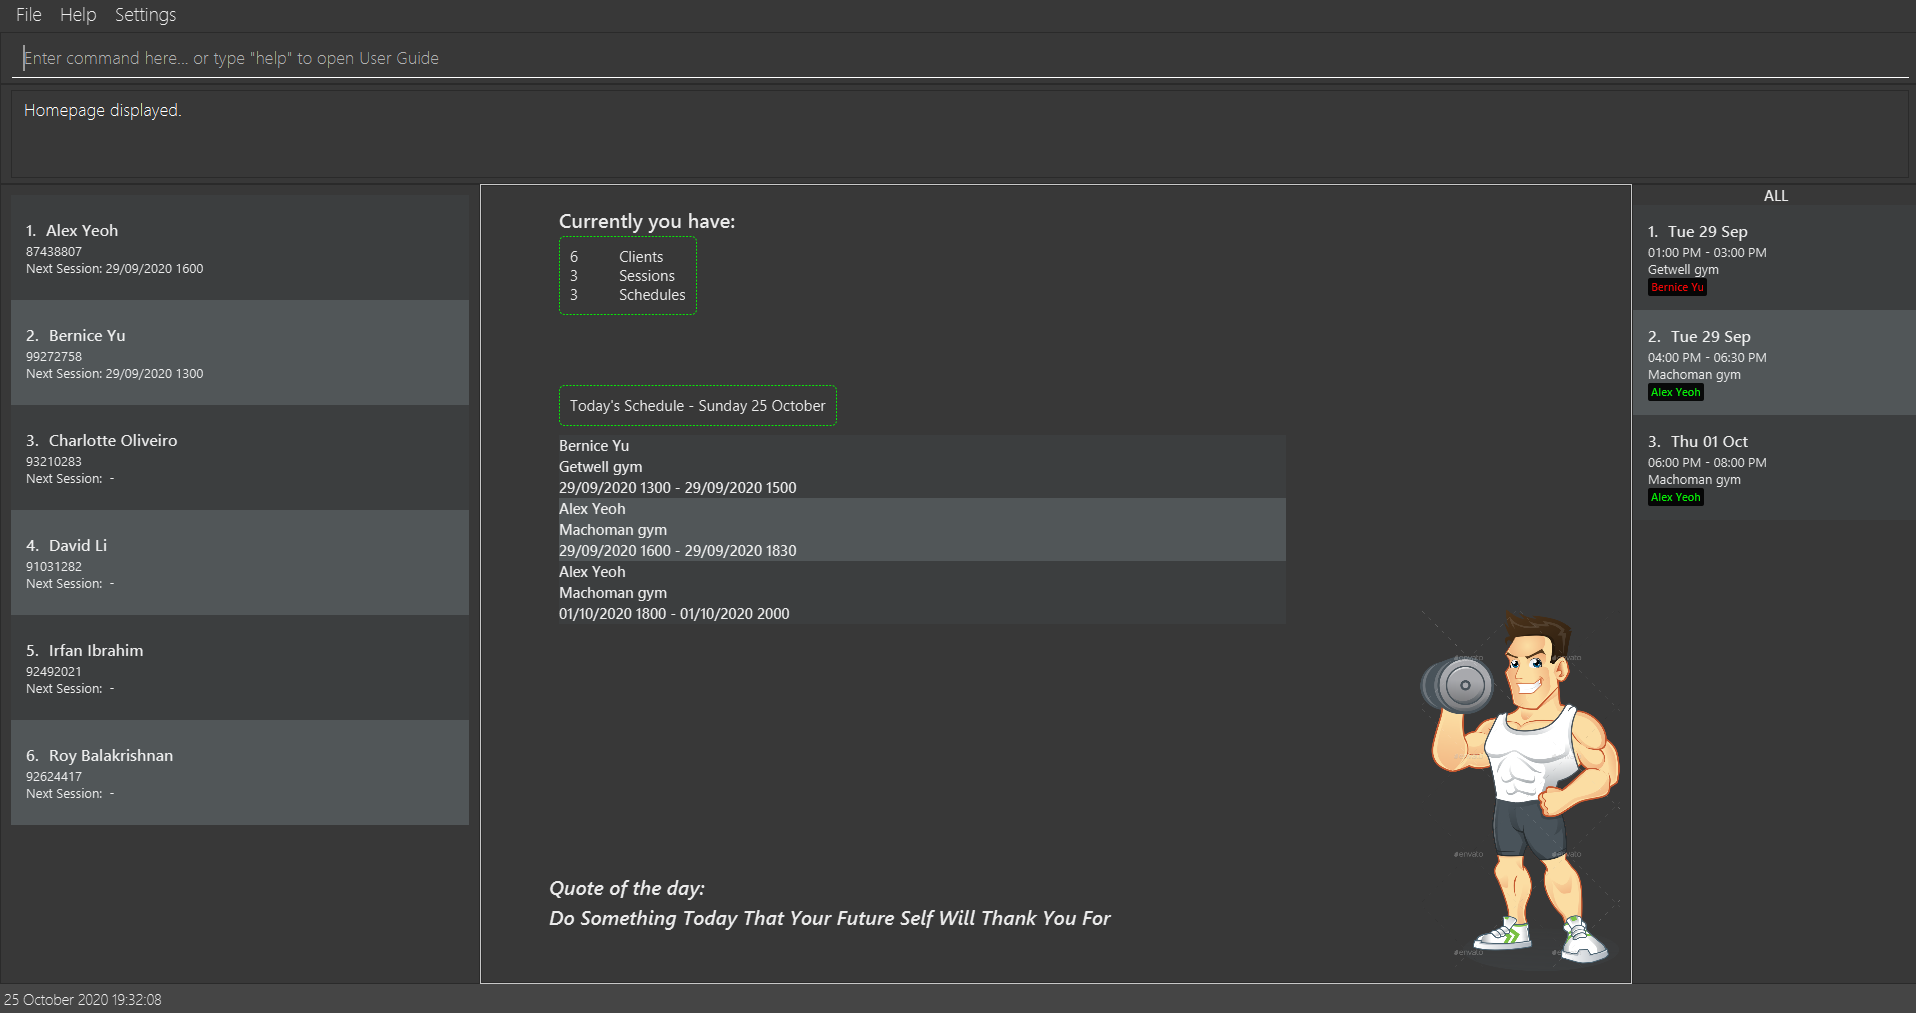
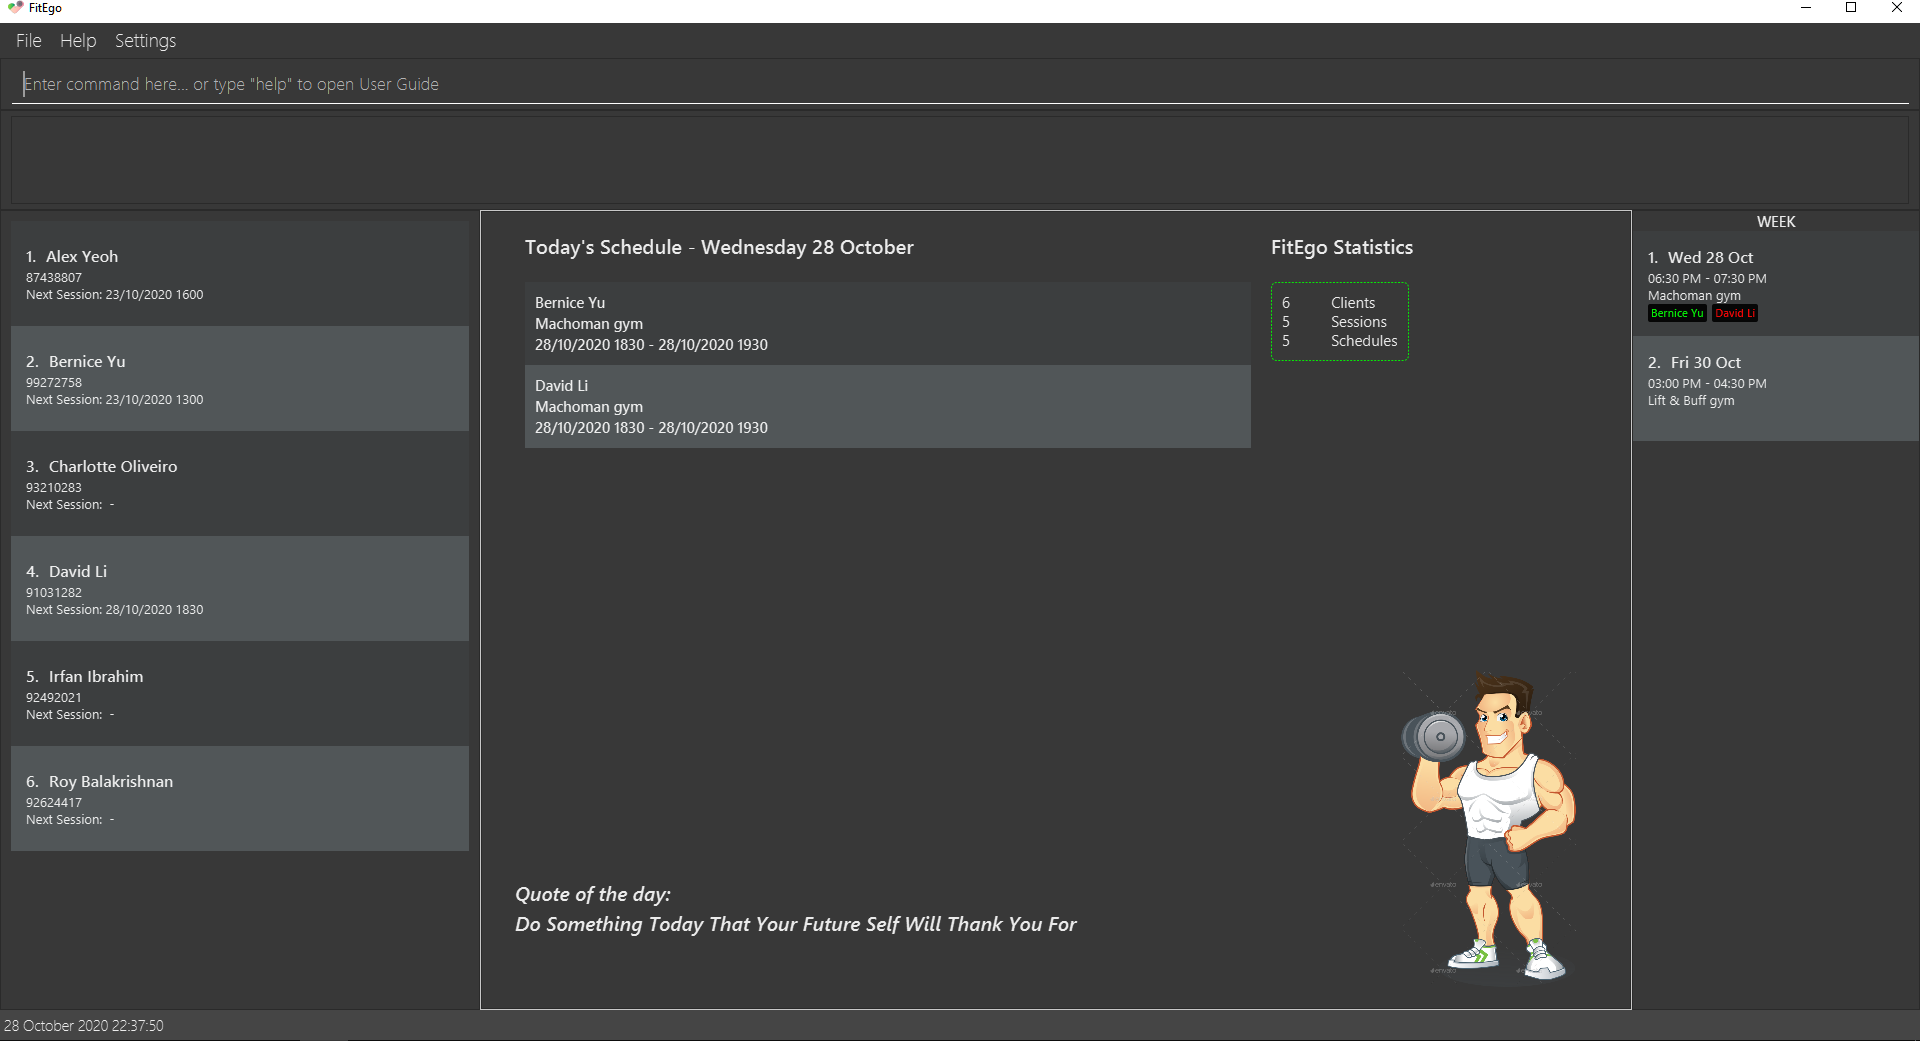
Update Ui.png and modify UG

diff --git a/docs/UserGuide.md b/docs/UserGuide.md
@@ -446,8 +446,13 @@ All session-related keywords are described in this section. All of the commands 
 
 <center><img src="images/SessionPanel.png" alt="session_panel" width="250" height="450" /><br/>
 Figure 9 - Sample of Session List</center><br/>
-The `ALL` at the top of this Session List panel represents the current settings of session view. You can change the period 
+The `ALL` at the top of this Session List panel represents the current period of session view. 
+
+<div markdown="span" class="alert alert-primary">:bulb: **Tip:**
+The default period of session view is 'WEEK'. You can change the period 
 of session view using [`sview`](#viewing-sessions-within-period--sview) command. 
+</div>
+
 
 ### 3.3.1 Adding a Session : `sadd`
 
@@ -531,7 +536,7 @@ Points to take note when viewing session from the Session List:
  | all| All sessions (including past ones)|
  | future | All sessions that have not started|
  | past | All sessions that have already ended|
- | week | All sessions within the next 7 days|
+ | week | All sessions within the next 7 days (inclusive of today)|
  | `+[x][unit]` | Sessions within next x time units|
  | `-[x][unit]` | Sessions within past x time units|
  
